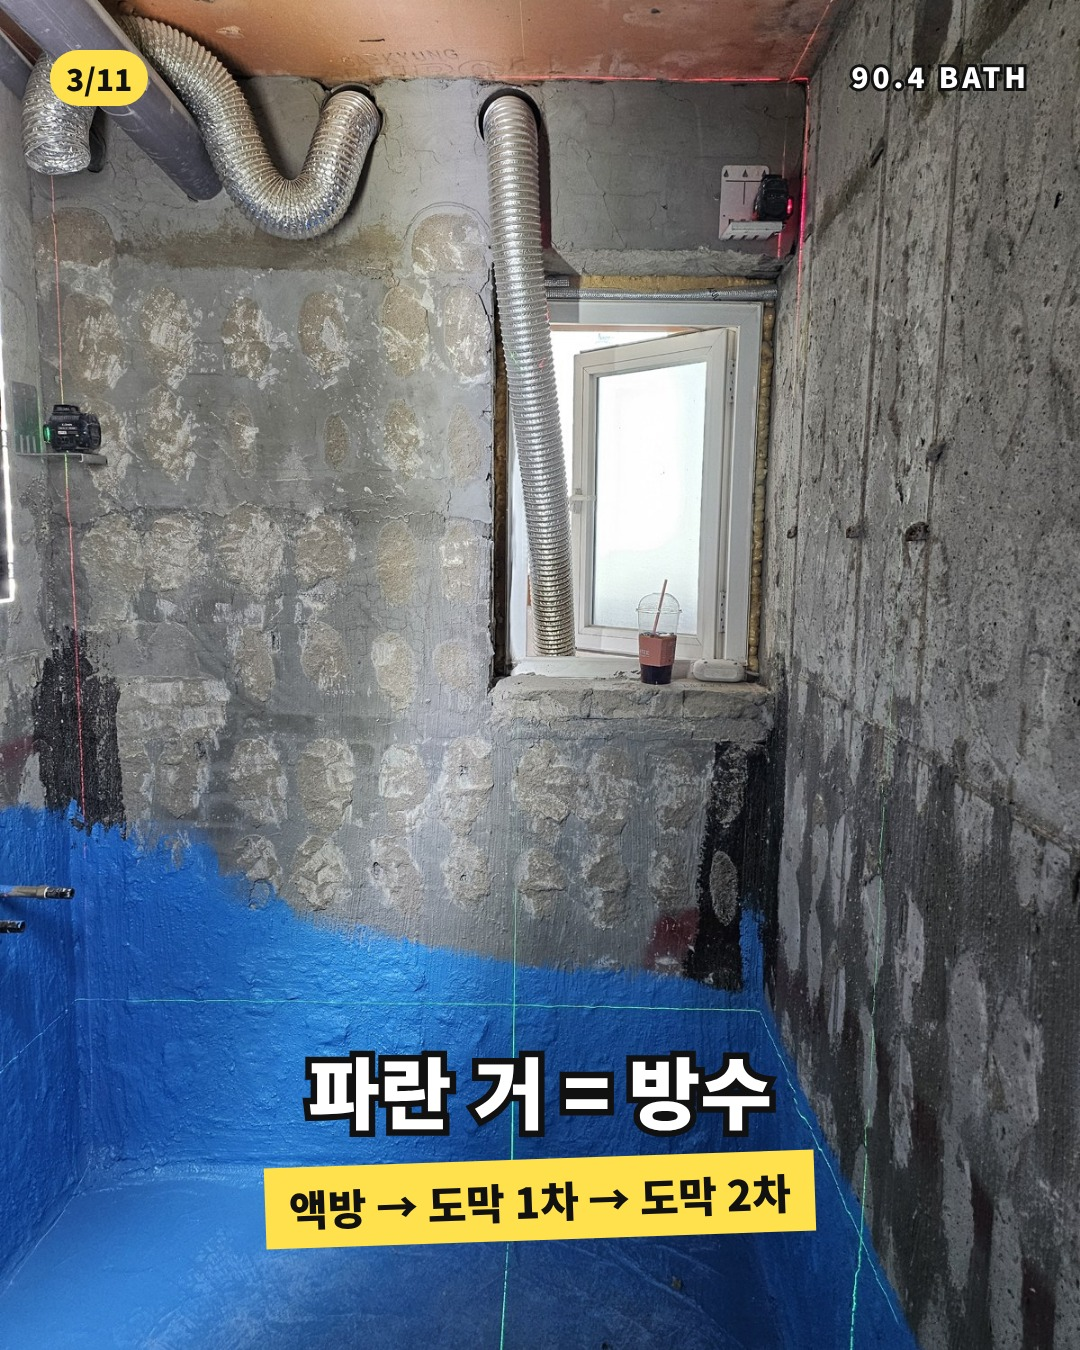
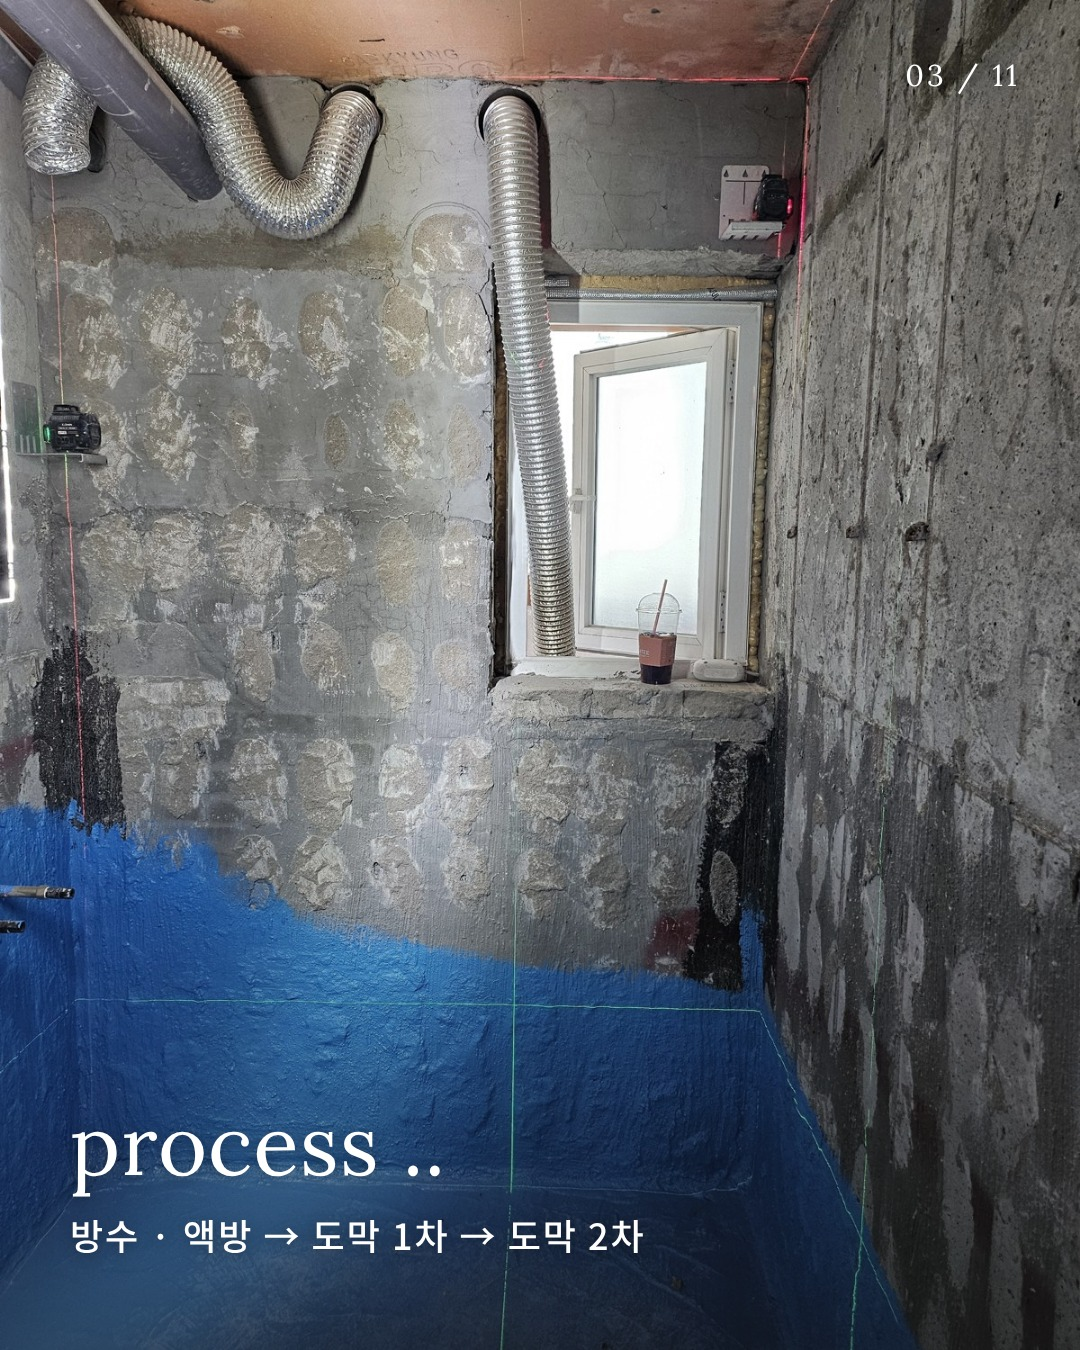
인스타 게시물 릴스 스타일로 교체
Claude-Session: https://claude.ai/code/session_01DaR7ZcoCmkn6vzg1ixZc4M

Changed region(s): [[0.0, 0.6533, 1.0, 1.0], [0.7944, 0.0311, 0.9472, 0.0933], [0.0306, 0.0311, 0.1528, 0.0933]]

diff --git a/blog/tools/insta_minimal.py b/blog/tools/insta_minimal.py
@@ -1,0 +1,32 @@
+from playwright.sync_api import sync_playwright
+import shutil, os
+CSS="""body{margin:0}*{box-sizing:border-box}
+.s{width:1080px;height:1350px;position:relative;overflow:hidden;background:#dcd6cd}
+.bg{position:absolute;inset:0;width:100%;height:100%;object-fit:cover;filter:saturate(.85)}
+.shade{position:absolute;left:0;right:0;bottom:0;height:520px;background:linear-gradient(transparent,rgba(20,18,16,.55))}
+.lab{position:absolute;left:70px;bottom:90px;color:#fff;text-shadow:0 2px 14px rgba(0,0,0,.35)}
+.en{font-family:Lora,serif;font-size:84px;letter-spacing:1px}
+.ko{font-family:'Noto Sans CJK KR';font-weight:500;font-size:36px;letter-spacing:2px;margin-top:10px}
+.pg{position:absolute;right:60px;top:56px;font-family:Lora,serif;font-size:30px;color:#fff;letter-spacing:3px;text-shadow:0 1px 8px rgba(0,0,0,.4)}
+.half{position:absolute;left:0;width:1080px;height:670px;overflow:hidden}.half img{width:100%;height:100%;object-fit:cover;filter:saturate(.85)}
+.hl{position:absolute;left:50px;bottom:34px;font-family:Lora,serif;font-size:60px;color:#fff;text-shadow:0 2px 12px rgba(0,0,0,.45)}"""
+def photo(src,i,N,en,ko,pos='center'):
+    return f'<div class="s"><img class="bg" src="{src}" style="object-position:{pos}"><div class="shade"></div><div class="pg">{i:02d} / {N}</div><div class="lab"><div class="en">{en}</div><div class="ko">{ko}</div></div></div>'
+def cover(src,en,ko,pos='center'):
+    return f'''<div class="s"><img class="bg" src="{src}" style="object-position:{pos};filter:saturate(.85) brightness(.82)"><div style="position:absolute;inset:0;display:flex;flex-direction:column;align-items:center;justify-content:center;text-align:center;color:#fff;text-shadow:0 2px 18px rgba(0,0,0,.4)">
+<div style="font-family:Lora,serif;font-size:96px;line-height:1.1">{en}</div><div style="font-family:'Noto Sans CJK KR';font-weight:500;font-size:40px;letter-spacing:3px;margin-top:26px">{ko}</div>
+<div style="font-family:Lora,serif;font-size:32px;letter-spacing:6px;margin-top:70px;opacity:.9">swipe →</div></div></div>'''
+def ba(a,b,i,N,ko,pa='center',pb='center'):
+    return f'''<div class="s"><div class="half" style="top:0"><img src="{a}" style="object-position:{pa}"><div class="hl">before</div></div>
+<div class="half" style="top:680px"><img src="{b}" style="object-position:{pb}"><div class="hl">after</div></div>
+<div class="pg">{i:02d} / {N}</div>
+<div style="position:absolute;right:50px;top:618px;font-family:'Noto Sans CJK KR';font-weight:500;font-size:34px;color:#2b2824;background:#dcd6cd;padding:10px 24px;letter-spacing:2px">{ko}</div></div>'''
+def render(slides,out,endcard):
+    os.makedirs(out,exist_ok=True)
+    with sync_playwright() as p:
+        b=p.chromium.launch(); pg=b.new_page(viewport={'width':1080,'height':1350})
+        for i,s in enumerate(slides,1):
+            if s=='END': shutil.copy(endcard,f'{out}/{i:02d}.jpg'); continue
+            open('/tmp/im.html','w').write(f'<html><head><meta charset="utf-8"><style>{CSS}</style></head><body>{s}</body></html>')
+            pg.goto('file:///tmp/im.html'); pg.wait_for_timeout(200); pg.screenshot(path=f'{out}/{i:02d}.jpg',type='jpeg',quality=92)
+        b.close()
